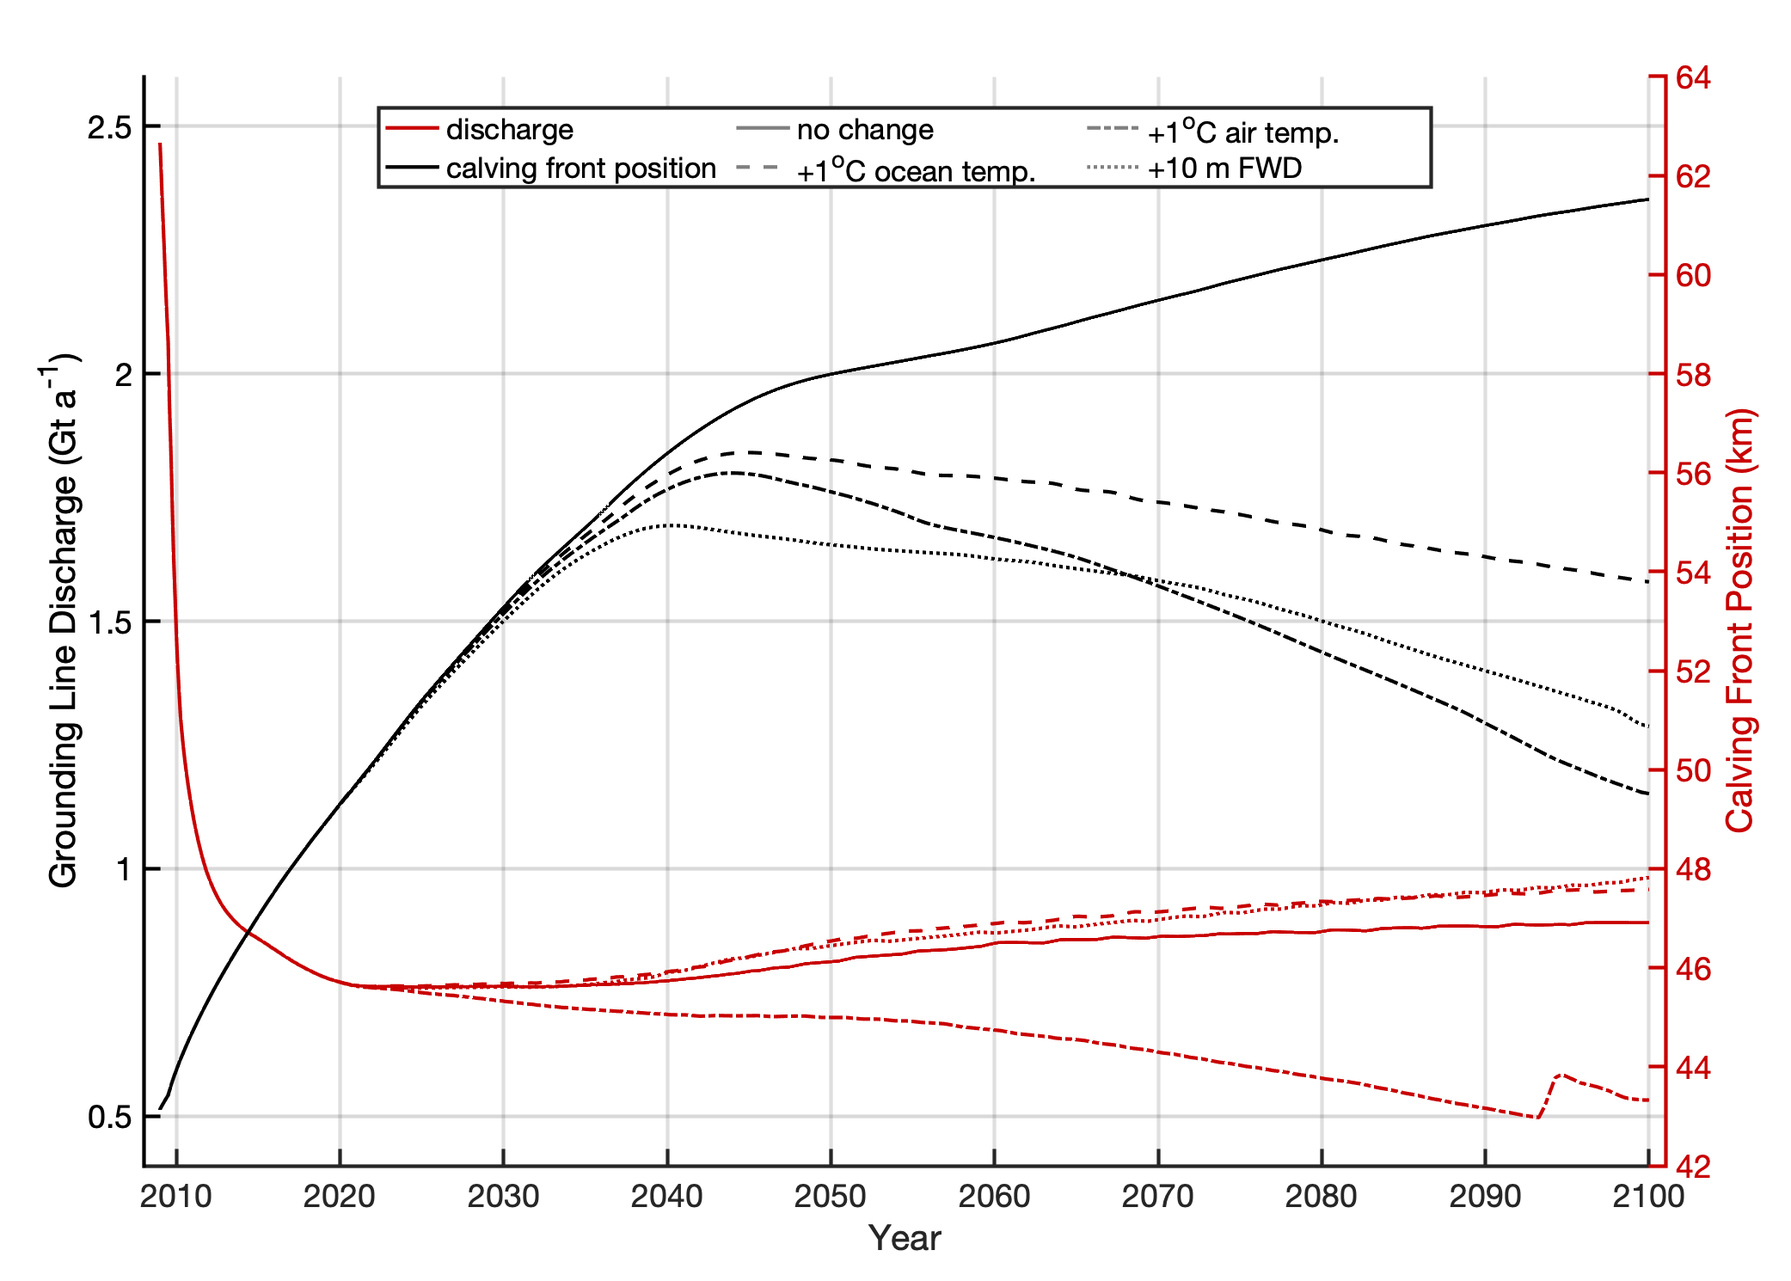
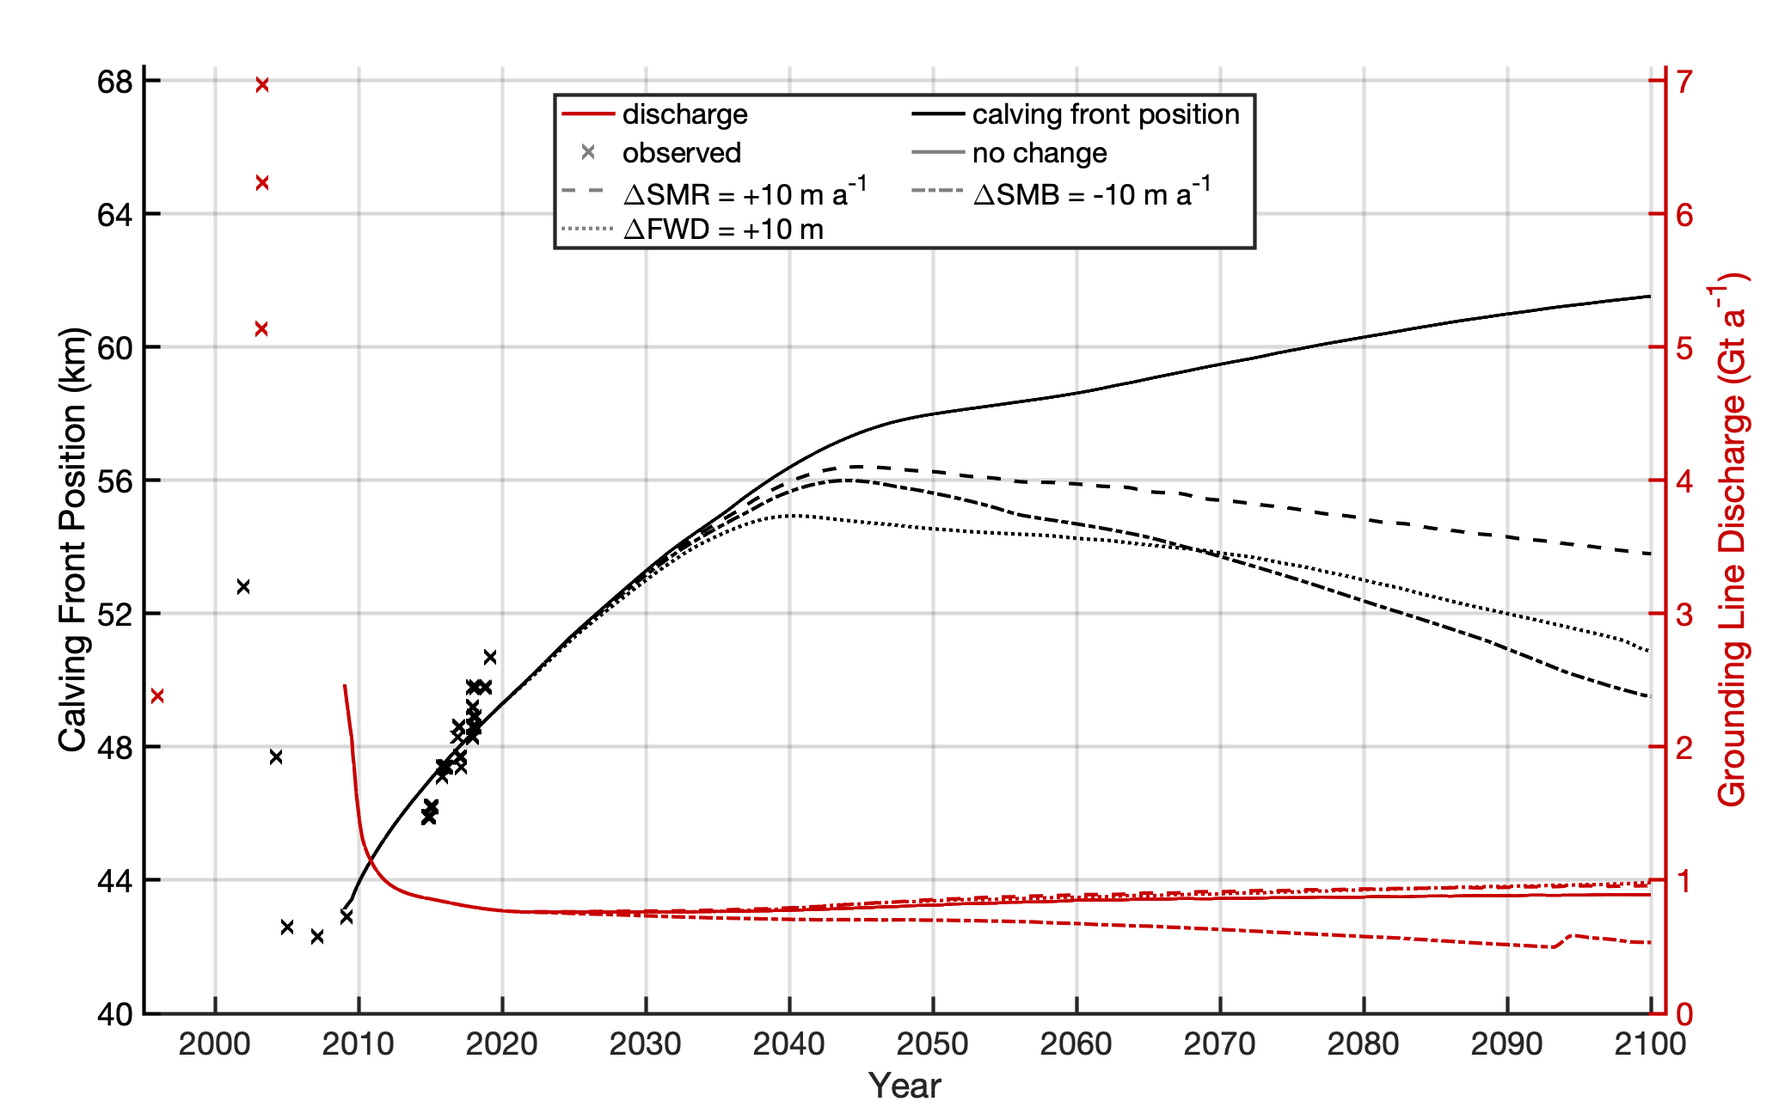
5 June 2021

diff --git a/scripts/thesisFigures.m b/scripts/thesisFigures.m
@@ -36,7 +36,8 @@ cl.X = interp1(cl.xi,cl.Xi,cl.x); cl.Y = interp1(cl.xi,cl.Yi,cl.x);
 close all;
 
 save_figure = 1;    % = 1 to save figure
-fontsize = 20;      % font size
+fontsize = 18;      % font size
+fontname = 'Arial'; % font name
 markersize = 8;    % marker size
 linewidth = 2;      % line width
 
@@ -48,23 +49,24 @@ linewidth = 2;      % line width
 % Specify xticks/yticks coordinates and axes limits
     xticks = linspace(-2.455e6,-2.375e6,5); yticks=linspace(1.21e6,1.29e6,5);
     xlimits=[xticks(1) xticks(end)]; ylimits = [yticks(1) yticks(end)];
+    xlimits2 = -2.4260e6:0.01e6:-2.3960e6; ylimits2 = 1.2353e6:0.01e6:1.2653e6; 
     
-% load & display Landsat image
+% load & display Landsat image 1
     cd([homepath,'../Imagery/LC08_L1GT_218106_20191013_20191018_01_T2']);
     landsat = dir('*B8.TIF');
     [LS.im,LS.R] = readgeoraster(landsat.name); [LS.ny,LS.nx] = size(LS.im);
     % polar stereographic coordinates of image boundaries
     LS.x = linspace(min(LS.R.XWorldLimits),max(LS.R.XWorldLimits),LS.nx); 
     LS.y = linspace(min(LS.R.YWorldLimits),max(LS.R.YWorldLimits),LS.ny);
-    % display image on ax1
-    figure(1); clf; hold on; 
-    set(gcf,'position',[557    75   724   622],'color','w');
-    ax1=gca; 
-    im1 = imagesc(ax1,LS.x,LS.y,flipud(LS.im*1.1)); colormap('gray');
+    % display image on ax(1)
+    F1 = figure(1); clf; hold on; 
+    set(gcf,'position',[557 75 724 622],'color','w');
+    ax(1)=gca;
+    im1 = imagesc(ax(1),LS.x,LS.y,flipud(LS.im*1.1)); colormap('gray');
     % set axes properties
-    ax1.XTick=xticks; ax1.XTickLabel=string(xticks./10^3);
-    ax1.YTick=yticks; ax1.YTickLabel=string(yticks./10^3);
-    set(ax1,'YDir','normal','XLim',xlimits','YLim',ylimits,'FontSize',14,...
+    ax(1).XTick=xticks+5e3; ax(1).XTickLabel=string((xticks+5e3)./10^3);
+    ax(1).YTick=yticks; ax(1).YTickLabel=string(yticks./10^3);
+    set(ax(1),'YDir','normal','XLim',xlimits','YLim',ylimits,'FontSize',14,...
         'linewidth',2,'fontsize',fontsize,'Position',[0.165 0.08 0.67 0.84]); 
     xlabel('Easting (km)'); ylabel('Northing (km)');
     
@@ -76,20 +78,20 @@ linewidth = 2;      % line width
     % polar stereographic coordinates of image boundaries
     REMA.x = linspace(min(REMA.R.XWorldLimits),max(REMA.R.XWorldLimits),REMA.nx); 
     REMA.y = linspace(min(REMA.R.YWorldLimits),max(REMA.R.YWorldLimits),REMA.ny);
-    % display contours on ax1
-    hold on; contour(ax1,REMA.x,REMA.y,flipud(REMA.im),0:500:2000,'-k','linewidth',2,'ShowText','on');
+    % display contours on ax(1)
+    hold on; contour(ax(1),REMA.x,REMA.y,flipud(REMA.im),0:500:2000,'-k','linewidth',2,'ShowText','on');
     
 % load & display ITS_LIVE velocity map
     cd([homepath,'data/velocities']);
     v.v = ncread('ANT_G0240_2017.nc','v'); v.v(v.v==-3267)=NaN;
     v.x = ncread('ANT_G0240_2017.nc','x'); v.y = ncread('ANT_G0240_2017.nc','y');
-    % display velocity map on ax2
-    ax2 = axes; 
-    im2=imagesc(ax2,v.x,v.y,v.v'); colormap(cmocean('haline'));
+    % display velocity map on ax(2)
+    ax(2) = axes; 
+    im2=imagesc(ax(2),v.x,v.y,v.v'); colormap(cmocean('haline'));
     im2.AlphaData=0.5; caxis([0 1100]);
     % set axes properties
-    ax2.XLim=xlimits; ax2.YLim=ylimits; 
-    set(ax2,'YDir','normal','Visible','off','fontsize',12,'XTick',[],'YTick',[]); hold on; 
+    ax(2).XLim=xlimits; ax(2).YLim=ylimits; 
+    set(ax(2),'YDir','normal','Visible','off','fontsize',12,'XTick',[],'YTick',[]); hold on; 
     % add legend
     l=legend('Position',[0.23 0.8 0.12 0.07],'Color',[175 175 175]/255,...
         'fontname','arial','fontsize',fontsize);
@@ -97,16 +99,16 @@ linewidth = 2;      % line width
 % Add lat lon coordinates to top and right axes
     latlon = graticuleps(-66:0.25:-64,-64:0.5:-62,'color',[175 175 175]/255,'linewidth',1,...
         'HandleVisibility','off');
-    ax1.Position = [0.135 0.1 0.73 0.85];
-    ax2.Position=[0.001 0.1 1 0.85];     
+    ax(1).Position = [0.135 0.1 0.73 0.85];
+    ax(2).Position=[0.001 0.1 1 0.85];     
     annotation('textarrow',[0.6 0.6],[0.6 0.6],'string','62.00^oS','textcolor',[175 175 175]/255,...
-        'HeadStyle','none','LineStyle', 'none','Position',[.97 .67 0 0],'FontSize',fontsize,'FontName','Arial');     
+        'HeadStyle','none','LineStyle', 'none','Position',[.97 .67 0 0],'FontSize',fontsize,'FontName',fontname);     
     annotation('textarrow',[0.6 0.6],[0.6 0.6],'string','62.50^oS','textcolor',[175 175 175]/255, ...
-        'HeadStyle','none','LineStyle', 'none','Position',[.97 .39 0 0],'FontSize',fontsize,'FontName','Arial');     
+        'HeadStyle','none','LineStyle', 'none','Position',[.97 .39 0 0],'FontSize',fontsize,'FontName',fontname);     
     annotation('textarrow',[0.6 0.6],[0.6 0.6],'string','65.25^oW','textcolor',[175 175 175]/255, ...
-        'HeadStyle','none','LineStyle', 'none','Position',[.64 .97 0 0],'FontSize',fontsize,'FontName','Arial');     
+        'HeadStyle','none','LineStyle', 'none','Position',[.64 .97 0 0],'FontSize',fontsize,'FontName',fontname);     
     annotation('textarrow',[0.6 0.6],[0.6 0.6],'string','65.00^oW','textcolor',[175 175 175]/255, ...
-        'HeadStyle','none','LineStyle', 'none','Position',[.36 .97 0 0],'FontSize',fontsize,'FontName','Arial'); 
+        'HeadStyle','none','LineStyle', 'none','Position',[.36 .97 0 0],'FontSize',fontsize,'FontName',fontname); 
     
 % plot OIB flights
     cd([homepath,'../figures/1_StudyArea']);
@@ -115,10 +117,10 @@ linewidth = 2;      % line width
         OIB.file = readmatrix(OIBfiles(i).name);
         [OIB.x,OIB.y] = wgs2ps(OIB.file(:,2),OIB.file(:,1),'StandardParallel',-71,'StandardMeridian',0);
         if i==1
-            hold on; plot(ax2,OIB.x,OIB.y,'color','w',...
+            hold on; plot(ax(2),OIB.x,OIB.y,'color','w',...
                 'displayname','NASA OIB','linewidth',linewidth-1);
         else
-            hold on; plot(ax2,OIB.x,OIB.y,'color','w',...
+            hold on; plot(ax(2),OIB.x,OIB.y,'color','w',...
                 'HandleVisibility','off','linewidth',linewidth-1);            
         end
     end
@@ -138,69 +140,94 @@ linewidth = 2;      % line width
     text(cl.X(Idist)+1500,cl.Y(Idist),labels,'color',[253,224,221]/255,...
         'fontweight','bold','fontname','arial','fontsize',fontsize);
 
+% plot (b) as outline polygon
+
 % add colorbar
     c = colorbar('Position',[0.29 0.58 0.02 0.15],'fontsize',fontsize,'fontweight',...
-        'bold','color','w','fontname','arial');
+        'bold','color','w','fontname',fontname);
     set(get(c,'Title'),'String','Speed (m a^{-1})','color','w','fontname',...
-        'arial','Position',[5 100 0]);
+        fontname,'Position',[5 100 0]);
 
 % insert text labels
     % Crane
     annotation('textarrow',[0.6 0.6],[0.6 0.6],'string','Crane', ...
        'HeadStyle','none','LineStyle', 'none', 'TextRotation',70,'Position',[.52 0.65 0 0],...
-       'FontSize',fontsize-1,'FontName','Arial','fontweight','bold','TextColor',[200 200 200]/255);
-    % Former Larsen B Ice Shelf
-    %txt = sprintf('Former Larsen \n    B Ice Shelf');
-    %text(-2.405e6,1.282e6,txt,'color',[200 200 200]/255,'fontsize',12,'fontweight','bold');
+       'FontSize',fontsize-1,'FontName',fontname,'fontweight','bold','TextColor',[200 200 200]/255);
     % Jorum
     annotation('textarrow',[0.6 0.6],[0.6 0.6],'string','Jorum', ...
         'HeadStyle','none','LineStyle', 'none', 'TextRotation',35,'Position',[.52 .855 0 0],...
-        'FontSize',fontsize-1,'FontName','Arial','fontweight','bold','TextColor',[200 200 200]/255);    
+        'FontSize',fontsize-1,'FontName',fontname,'fontweight','bold','TextColor',[200 200 200]/255);    
     % Flask
     annotation('textarrow',[0.6 0.6],[0.6 0.6],'string','Flask', ...
        'HeadStyle','none','LineStyle', 'none', 'TextRotation',55,'Position',[.8 .19 0 0],...
-       'FontSize',fontsize-1,'FontName','Arial','fontweight','bold','TextColor',[200 200 200]/255);    
+       'FontSize',fontsize-1,'FontName',fontname,'fontweight','bold','TextColor',[200 200 200]/255);    
     % Mapple
     %annotation('textarrow',[0.6 0.6],[0.6 0.6],'string','Mapple', ...
     %    'HeadStyle','none','LineStyle', 'none', 'TextRotation',66,'Position',[.65 .7 0 0],...
-    %    'FontSize',fontsize-1,'FontName','Arial','fontweight','bold','TextColor',[200 200 200]/255);    
+    %    'FontSize',fontsize-1,'FontName',fontname,'fontweight','bold','TextColor',[200 200 200]/255);    
     % Melville
     annotation('textarrow',[0.6 0.6],[0.6 0.6],'string','Melville', ...
         'HeadStyle','none','LineStyle', 'none', 'TextRotation',70,'Position',[.68 .6 0 0],...
-        'FontSize',fontsize-1,'FontName','Arial','fontweight','bold','TextColor',[200 200 200]/255);           
+        'FontSize',fontsize-1,'FontName',fontname,'fontweight','bold','TextColor',[200 200 200]/255);           
     % Pequod
     annotation('textarrow',[0.6 0.6],[0.6 0.6],'string','Pequod', ...
         'HeadStyle','none','LineStyle', 'none', 'TextRotation',66,'Position',[.74 .59 0 0],...
-        'FontSize',fontsize-1,'FontName','Arial','fontweight','bold','TextColor',[200 200 200]/255);               
+        'FontSize',fontsize-1,'FontName',fontname,'fontweight','bold','TextColor',[200 200 200]/255);               
     % Starbuck
     annotation('textarrow',[0.6 0.6],[0.6 0.6],'string','Starbuck', ...
         'HeadStyle','none','LineStyle', 'none', 'TextRotation',38,'Position',[.78 .47 0 0],...
-        'FontSize',fontsize-1,'FontName','Arial','fontweight','bold','TextColor',[200 200 200]/255);   
+        'FontSize',fontsize-1,'FontName',fontname,'fontweight','bold','TextColor',[200 200 200]/255);   
     % Tributary A
     txt = sprintf('A');
-        text(-2.413e6,1.232e6,txt,'color',[200 200 200]/255,'fontsize',fontsize-1,'fontweight','bold','fontname','arial');       
+        text(-2.413e6,1.232e6,txt,'color',[200 200 200]/255,'fontsize',fontsize-1,'fontweight','bold','fontname',fontname);       
     % Tributary B
     txt = sprintf('B');
-        text(-2.415e6,1.237e6,txt,'color',[200 200 200]/255,'fontsize',fontsize-1,'fontweight','bold','fontname','arial');    
+        text(-2.415e6,1.237e6,txt,'color',[200 200 200]/255,'fontsize',fontsize-1,'fontweight','bold','fontname',fontname);    
     % Tributary C
     txt = sprintf('C');
-        text(-2.417e6,1.251e6,txt,'color',[200 200 200]/255,'fontsize',fontsize-1,'fontweight','bold','fontname','arial');       
-    
+        text(-2.417e6,1.251e6,txt,'color',[200 200 200]/255,'fontsize',fontsize-1,'fontweight','bold','fontname',fontname); 
+    text((max(get(gca,'XLim'))-min(get(gca,'XLim')))*0.925+min(get(gca,'XLim')),(max(get(gca,'YLim'))-min(get(gca,'YLim')))*0.925+min(get(gca,'YLim')),...
+        '(a)','fontsize',fontsize,'linewidth',linewidth-1,'backgroundcolor','w','fontname',fontname);          
+
     % plot LIMA inset in figure
-    ax4=axes('pos',[0.2 0.12 0.2 0.2]);
-    set(ax4,'xtick',[],'xticklabel',[],'ytick',[],'yticklabel',[]);
+    ax(4)=axes('pos',[0.2 0.12 0.2 0.2]);
+    set(ax(4),'xtick',[],'xticklabel',[],'ytick',[],'yticklabel',[]);
     cd([homepath,'../Imagery']);
     L = imread('LIMA.jpg');
     imshow(L);
     hold on; plot(1100,4270,'o','color','y','markersize',10,'linewidth',3);
     
-if save_figure
-    set(gcf,'InvertHardCopy','off'); % save colors as is
+% add Landsat NIR band to demonstrate meltwater pooling on Crane surface
+cd([homepath,'../Imagery/LC08_L1GT_217106_20200110_20200114_01_T2']);
+    landsat = dir('*B4.TIF');
+    [LS2.im,LS2.R] = readgeoraster(landsat.name); [LS2.ny,LS2.nx] = size(LS2.im);
+    % polar stereographic coordinates of image boundaries
+    LS2.x = linspace(min(LS2.R.XWorldLimits),max(LS2.R.XWorldLimits),LS2.nx); 
+    LS2.y = linspace(min(LS2.R.YWorldLimits),max(LS2.R.YWorldLimits),LS2.ny);
+    % create new figure
+    F2 = figure(2); clf; hold on; F2.Position = F1.Position.*2./3;
+    % display image on ax(5) 
+    ax(5)=gca; ax(5).Position = [0.15 0.15 0.8 0.8];
+    im2 = imagesc(ax(5),LS2.x,LS2.y,flipud(LS2.im*1.1)); colormap('gray');
+    % set axis properties
+    set(ax(5),'YDir','normal','linewidth',2,'fontsize',fontsize,'fontname',fontname,...
+        'XLim',[xlimits2(1) xlimits2(end)],'YLim',[ylimits2(1) ylimits2(end)]); 
+    ax(5).XTick=xlimits2+6e3; ax(5).XTickLabel=string((xlimits2+6e3)./10^3);
+    ax(5).YTick=ylimits2+4700; ax(5).YTickLabel=string((ylimits2+4700)./10^3);
+    xlabel('Easting (km)'); ylabel('Northing (km)');  
+    text((max(get(gca,'XLim'))-min(get(gca,'XLim')))*0.925+min(get(gca,'XLim')),(max(get(gca,'YLim'))-min(get(gca,'YLim')))*0.925+min(get(gca,'YLim')),...
+        '(b)','fontsize',fontsize,'linewidth',linewidth-1,'backgroundcolor','w','fontname',fontname);          
+    
+% save figure 1
+if save_figure || merge_figures
+    set(F1,'InvertHardCopy','off'); %set(F2,'InvertHardCopy','off'); % save colors as is
     cd([homepath,'figures/']);
-    saveas(gcf,'studyArea.png','png');
+    exportgraphics(F1,'studyArea.png','Resolution',300);
+    exportgraphics(F2,'meltwaterPonds.png','Resolution',300);
     cd([homepath,'../write-ups/Thesis/figures']);
-    saveas(gcf,'studyArea.png','png');
-    disp('figure 1 saved.');    
+    exportgraphics(F1,'studyArea.png','Resolution',300);
+    exportgraphics(F2,'meltwaterPonds.png','Resolution',300);    
+    disp('figures 1 and 2 saved.');    
 end
 
 %% Observed Conditions Time Series
@@ -273,11 +300,11 @@ ax2=axes('Position',[0.55 0.6 0.35 0.35],'linewidth',2,'fontsize',fontsize,'font
     % Add text label
     text(55,(max(get(gca,'YLim'))-min(get(gca,'YLim')))*0.925+min(get(gca,'YLim')),...
         '(b)','fontsize',fontsize,'linewidth',linewidth-1,'backgroundcolor','w','fontname',font);      
-ax3=axes('Position',[0.1 0.1 0.35 0.35],'linewidth',2,'fontsize',fontsize,'fontname',font); % terminus position
+ax(3)=axes('Position',[0.1 0.1 0.35 0.35],'linewidth',2,'fontsize',fontsize,'fontname',font); % terminus position
     hold on; grid on; xlabel('Distance Along Centerline (km)'); ylabel('Date');
     xlim([0 60]);
     for i=1:length(termx)
-        plot(ax3,termx(i)./10^3,termdate(i),'ok','MarkerFaceColor',col1(col_term(i),:),'markersize',markersize);
+        plot(ax(3),termx(i)./10^3,termdate(i),'ok','MarkerFaceColor',col1(col_term(i),:),'markersize',markersize);
     end
     % Add text label
     text(55,(max(get(gca,'YLim'))-min(get(gca,'YLim')))*0.925+min(get(gca,'YLim')),...
@@ -412,7 +439,7 @@ end
 
 close all;
 
-save_figures = 0;    % = 1 to save figure
+save_figures = 1;    % = 1 to save figure
 fontsize = 18;      % font size
 fontname = 'Arial'; % font name
 linewidth = 2;      % line width
@@ -436,6 +463,20 @@ t_end = 91*3.1536e7;
 t = (t_start:dt:t_end);
 clear dt t_start t_end
 
+% Observed discharge & calving front positions
+    % Rignot et al. (2004) discharge observations 
+    % [deciyear discharge (km^3/a)]
+    F_obs = [1996 2.6; 2003+2.75/12 5.6; 2003+3.2/12 6.8; 2003+3.5/12 7.6];
+    % convert to Gt/a
+    % (km^3/a)*(10^9 m^3/km^3)*(917 kg/m^3)*(10^-3 ton/kg)*(10^-9 Gt/ton) = Gt/a
+    F_obs(:,2) = F_obs(:,2).*10^9.*917.*10^-3.*10^-9; % Gt/a
+    
+    % Calving front positions
+    termdate = load('LarsenB_centerline.mat').centerline.termdate;
+    termX = load('LarsenB_centerline.mat').centerline.termx;
+    termY = load('LarsenB_centerline.mat').centerline.termy;
+    termx = cl.x(dsearchn([cl.X' cl.Y'],[termX' termY']));
+    
 cd([homepath,'scripts/3_sensitivityTests/results/']);
 addpath([homepath,'../matlabFunctions/cmocean_v2.0/cmocean']);
 
@@ -481,7 +522,7 @@ files = table2struct(files);
 col1=cmocean('thermal',length(Ismb)+3); % color scheme for figures 5 & 6 
 col1(1,:) = []; col1(end-1:end,:)=[]; % don't use end member colors
 colr = [200/255 0 0];
-
+    
 % set up axes
 loop=1; % loop to minimize plotting commands
 while loop==1
@@ -618,14 +659,17 @@ while loop==1
         cb6=colorbar('northoutside','fontname',fontname,'fontsize',fontsize-2,'Ticks',0:1/5:1,'TickLabels',string(0:2:10)); 
         set(get(cb6,'label'),'String','\DeltaFWD (m)','fontsize',fontsize-2);
     figure(7); clf;  
-    set(gcf,'Position',[200 200 1000 1000],'defaultAxesColorOrder',[[0 0 0];colr]); 
-    ax13 = axes('position',[0.08 0.09 0.85 0.85]);
-        set(ax13,'fontsize',fontsize,'linewidth',2); grid on;
-        xlabel('Year'); ylabel('Grounding Line Discharge (Gt a^{-1})');
-        ylim([0.4 2.6]);
-        hold on; grid on; 
-        xlim([2008 2101]);
-        yyaxis right; ylabel('Calving Front Position (km)'); ylim([42 64]);
+    set(gcf,'Position',[200 200 1000 1000],'defaultAxesColorOrder',[0 0 0;colr]); 
+    ax13 = axes('position',[0.08 0.09 0.85 0.85]); hold on;
+        set(ax13,'fontsize',fontsize,'linewidth',2);
+        xlabel('Year'); xlim([1995 2101]); 
+        yyaxis right; ylim([0 7.1]); ylabel('Grounding Line Discharge (Gt a^{-1})');
+        plot(F_obs(:,1),F_obs(:,2),'x','color',colr,'markersize',markersize-1,'linewidth',linewidth);
+        yyaxis left; ylabel('Calving Front Position (km)'); ylim([40 68.4]); 
+        ax13.YTick = ax13.YLim(1):4:ax13.YLim(2); grid on;
+        ax13.YTickLabel = string(ax13.YLim(1):4:ax13.YLim(2));
+        hdl(3) = plot(termdate,termx/10^3,'x','color',[0.5 0.5 0.5],'markersize',markersize-1,'linewidth',linewidth);        
+        plot(termdate,termx/10^3,'xk','markersize',markersize-1,'linewidth',linewidth);
     loop=loop+1; % exit loop        
 end
 
@@ -666,17 +710,17 @@ for i=1:length(Ismr)
     figure(7);
     if i==1
         % legend entries
-        yyaxis left; hdl(1) = plot(ax13,t/3.1536e7+2009,movmean(Fgl2,100),'-','color',colr,'linewidth',linewidth); 
-        yyaxis right; hdl(2) = plot(ax13,t/3.1536e7+2009,movmean(XCF2/10^3,100),'-k','linewidth',linewidth);
+        yyaxis right; hdl(1) = plot(ax13,t/3.1536e7+2009,movmean(Fgl2,100),'-','color',colr,'linewidth',linewidth); 
+        yyaxis left; hdl(2) = plot(ax13,t/3.1536e7+2009,movmean(XCF2/10^3,100),'-k','linewidth',linewidth);
         % no change
-        yyaxis left; hdl(3) = plot(ax13,t/3.1536e7+2009,movmean(Fgl2,100),'-','color',[0.5 0.5 0.5],'linewidth',linewidth); 
+        yyaxis right; hdl(4) = plot(ax13,t/3.1536e7+2009,movmean(Fgl2,100),'-','color',[0.5 0.5 0.5],'linewidth',linewidth); 
         plot(ax13,t/3.1536e7+2009,movmean(Fgl2,100),'-','color',colr,'linewidth',linewidth); 
-        yyaxis right; plot(ax13,t/3.1536e7+2009,movmean(XCF2/10^3,100),'-k','linewidth',linewidth);
+        yyaxis left; plot(ax13,t/3.1536e7+2009,movmean(XCF2/10^3,100),'-k','linewidth',linewidth);
     elseif i==length(Ismr)
         % SMR scenarios
-        yyaxis left; hdl(4) = plot(ax13,t/3.1536e7+2009,movmean(Fgl2,100),'--','color',[0.5 0.5 0.5],'linewidth',linewidth); 
+        yyaxis right; hdl(5) = plot(ax13,t/3.1536e7+2009,movmean(Fgl2,100),'--','color',[0.5 0.5 0.5],'linewidth',linewidth); 
         plot(ax13,t/3.1536e7+2009,movmean(Fgl2,100),'--','color',colr,'linewidth',linewidth); 
-        yyaxis right; plot(ax13,t/3.1536e7+2009,movmean(XCF2/10^3,100),'--k','linewidth',linewidth);     
+        yyaxis left; plot(ax13,t/3.1536e7+2009,movmean(XCF2/10^3,100),'--k','linewidth',linewidth);     
     end
     % save results 
     dsmr(i) = files(Ismr(i)).change; % m/a
@@ -723,9 +767,9 @@ for i=1:length(Ismb)
     plot(ax11,smb_mean(i),Fsmb(i),'o','markersize',markersize,'linewidth',linewidth,'color',col1(i,:));
     figure(7);
     if i==length(Ismb)
-        yyaxis left; hdl(5) = plot(ax13,t/3.1536e7+2009,movmean(Fgl2,100),'-.','color',[0.5 0.5 0.5],'linewidth',linewidth); 
+        yyaxis right; hdl(6) = plot(ax13,t/3.1536e7+2009,movmean(Fgl2,100),'-.','color',[0.5 0.5 0.5],'linewidth',linewidth); 
         plot(ax13,t/3.1536e7+2009,movmean(Fgl2,100),'-.','color',colr,'linewidth',linewidth); 
-        yyaxis right; plot(ax13,t/3.1536e7+2009,movmean(XCF2/10^3,100),'-.k','linewidth',linewidth);
+        yyaxis left; plot(ax13,t/3.1536e7+2009,movmean(XCF2/10^3,100),'-.k','linewidth',linewidth);
     end
     % save results 
     dsmb(i) = files(Ismb(i)).change; % m/a
@@ -777,9 +821,9 @@ for i=1:length(Ifwd)
     plot(ax12,files(Ifwd(i)).change+fwd0,Ffwd(i),'o','markersize',markersize,'linewidth',linewidth,'color',col1(i,:));    
     figure(7);
     if i==length(Ifwd)
-        yyaxis left; hdl(6) = plot(ax13,t/3.1536e7+2009,movmean(Fgl2,100),':','color',[0.5 0.5 0.5],'linewidth',linewidth); 
+        yyaxis right; hdl(7) = plot(ax13,t/3.1536e7+2009,movmean(Fgl2,100),':','color',[0.5 0.5 0.5],'linewidth',linewidth); 
         plot(ax13,t/3.1536e7+2009,movmean(Fgl2,100),':','color',colr,'linewidth',linewidth); 
-        yyaxis right; plot(ax13,t/3.1536e7+2009,movmean(XCF2/10^3,100),':k','linewidth',linewidth);
+        yyaxis left; plot(ax13,t/3.1536e7+2009,movmean(XCF2/10^3,100),':k','linewidth',linewidth);
     end
     % save results 
     dfwd(i) = files(Ifwd(i)).change; % m/a
@@ -789,8 +833,8 @@ for i=1:length(Ifwd)
     Ugl(i) = U2(gl2)*3.1536e7; % m/a
 end
 % add legend to figure 7 
-gkey = [{"discharge"},{"calving front position"},{"no change"},{"+1^oC ocean temp."},{"+1^oC air temp."},{"+10 m FWD"}];
-gridLegend(hdl,3,gkey,'location','north');
+gkey = [{"discharge"},{"calving front position"},{"observed"},{"no change"},{"\DeltaSMR = +10 m a^{-1}"},{"\DeltaSMB = -10 m a^{-1}"},{"\DeltaFWD = +10 m"}];
+gridLegend(hdl,2,gkey,'location','north','Orientation','Horizontal','fontsize',fontsize-2);
 
 % create table to store result quantities
 varNames = {'dfwd','dL','dxgl','dHgl','dUgl','Ffwd'};
